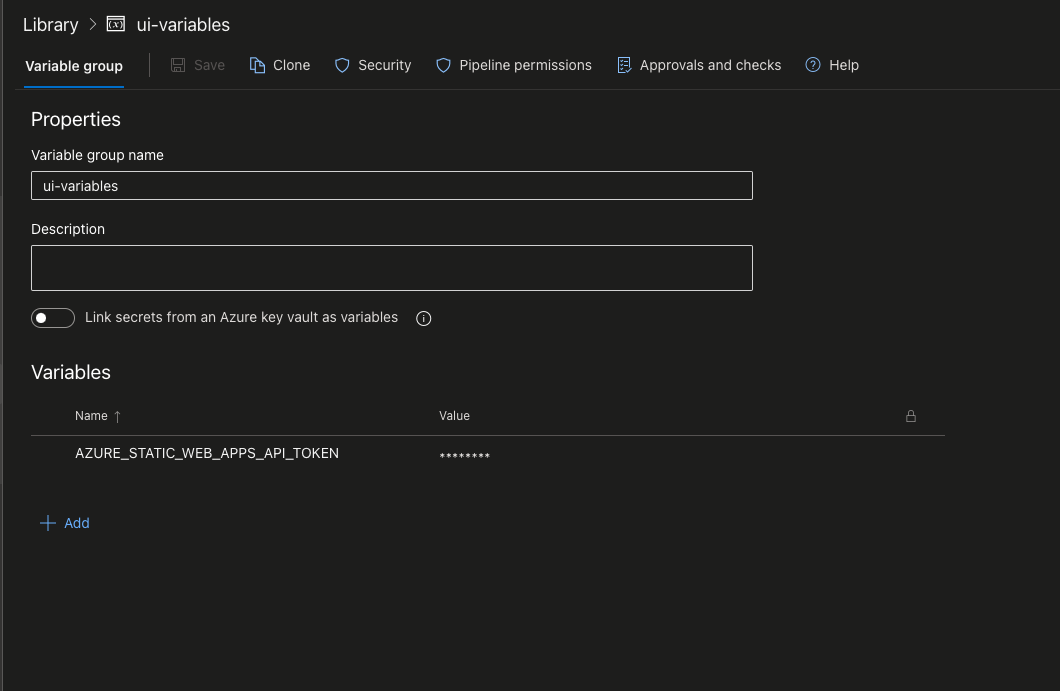
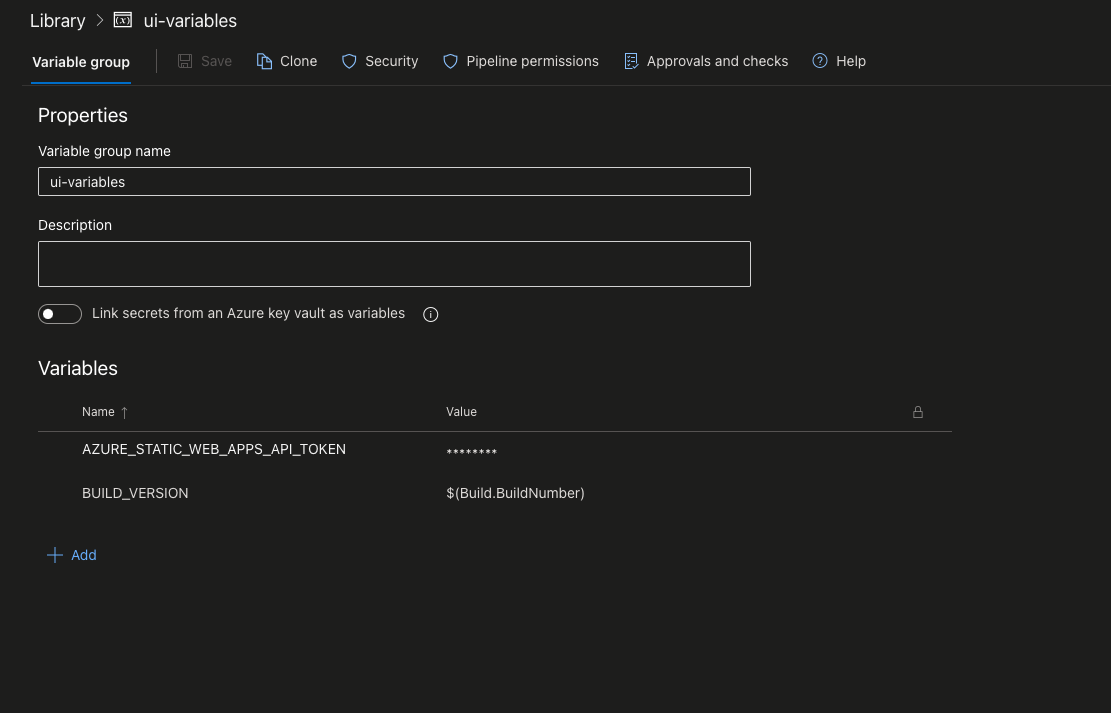
update docs and create version for GH action

diff --git a/README.md b/README.md
@@ -62,3 +62,4 @@ In order to allow either the ADO pipeline, or the GitHub action to connect to yo
   ![github repository secret](docs/github-repository-secret.png?raw=true 'GitHub repository secret')
 - if you wish to use the Azure DevOps pipeline then you will need to add the deployment token as a variable called AZURE_STATIC_WEB_APPS_API_TOKEN in a variable group named 'ui-variables'
   ![ado variable](docs/ado-variables.png?raw=true 'ADO variable')
+- an optional BUILD_VERSION can be added, mapped to the $(Build.BuildNumber) variable. This will be rendered on the /config page on the app to help inform the user as to what version of the app has been deployed.
